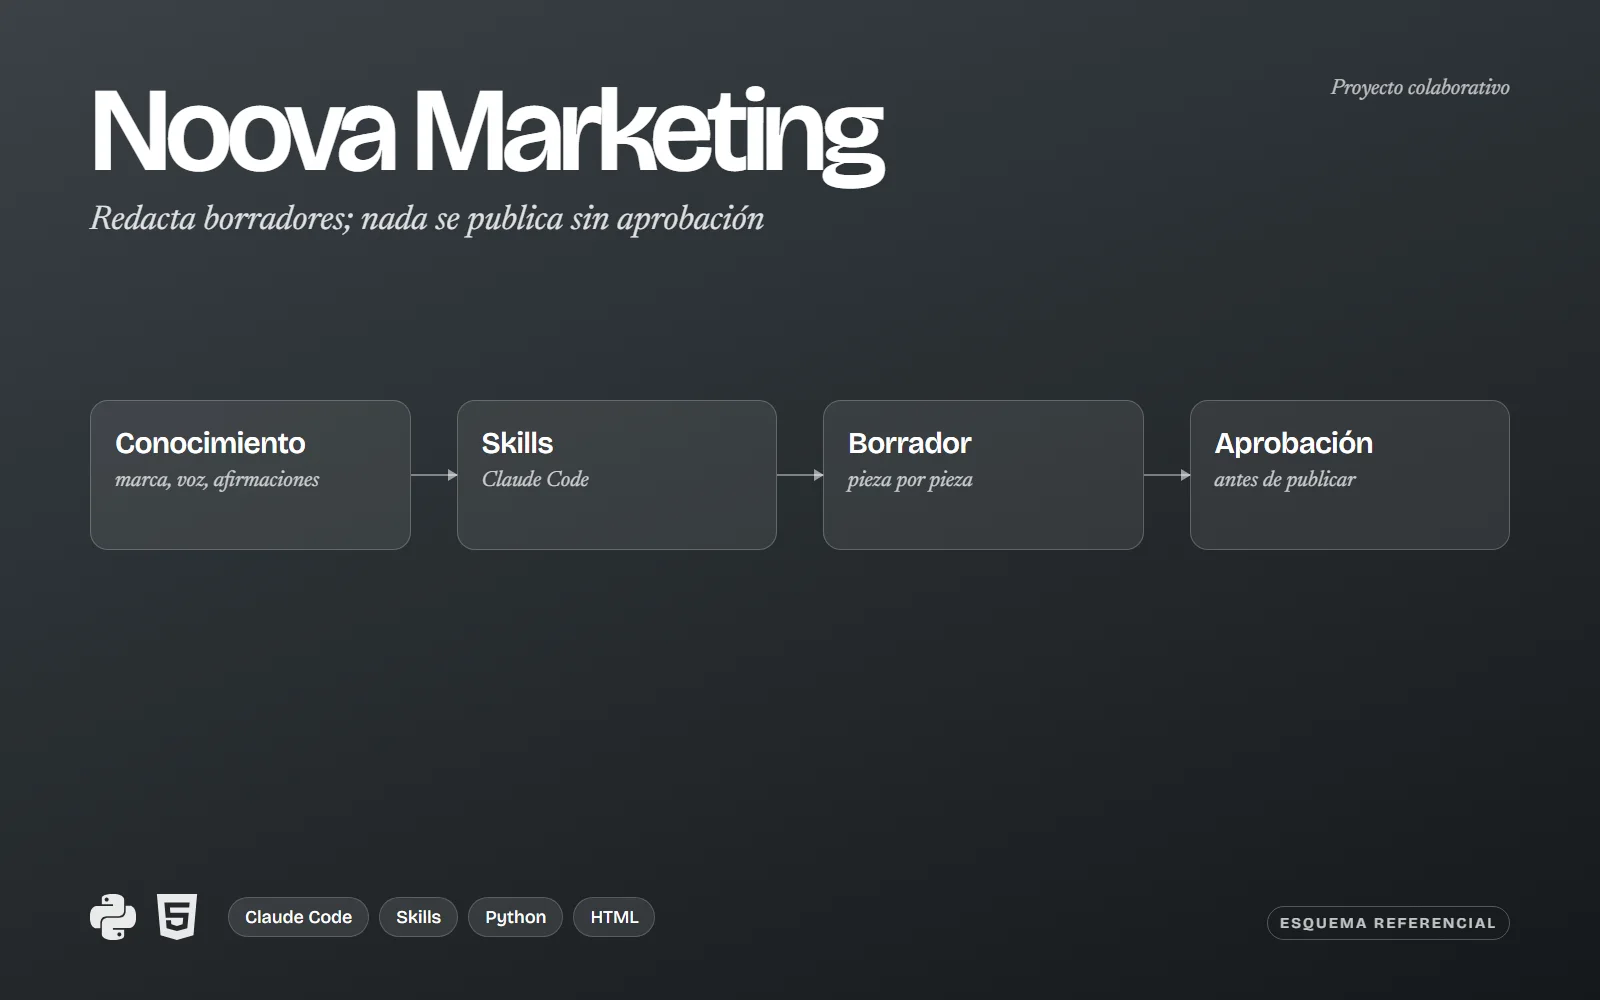
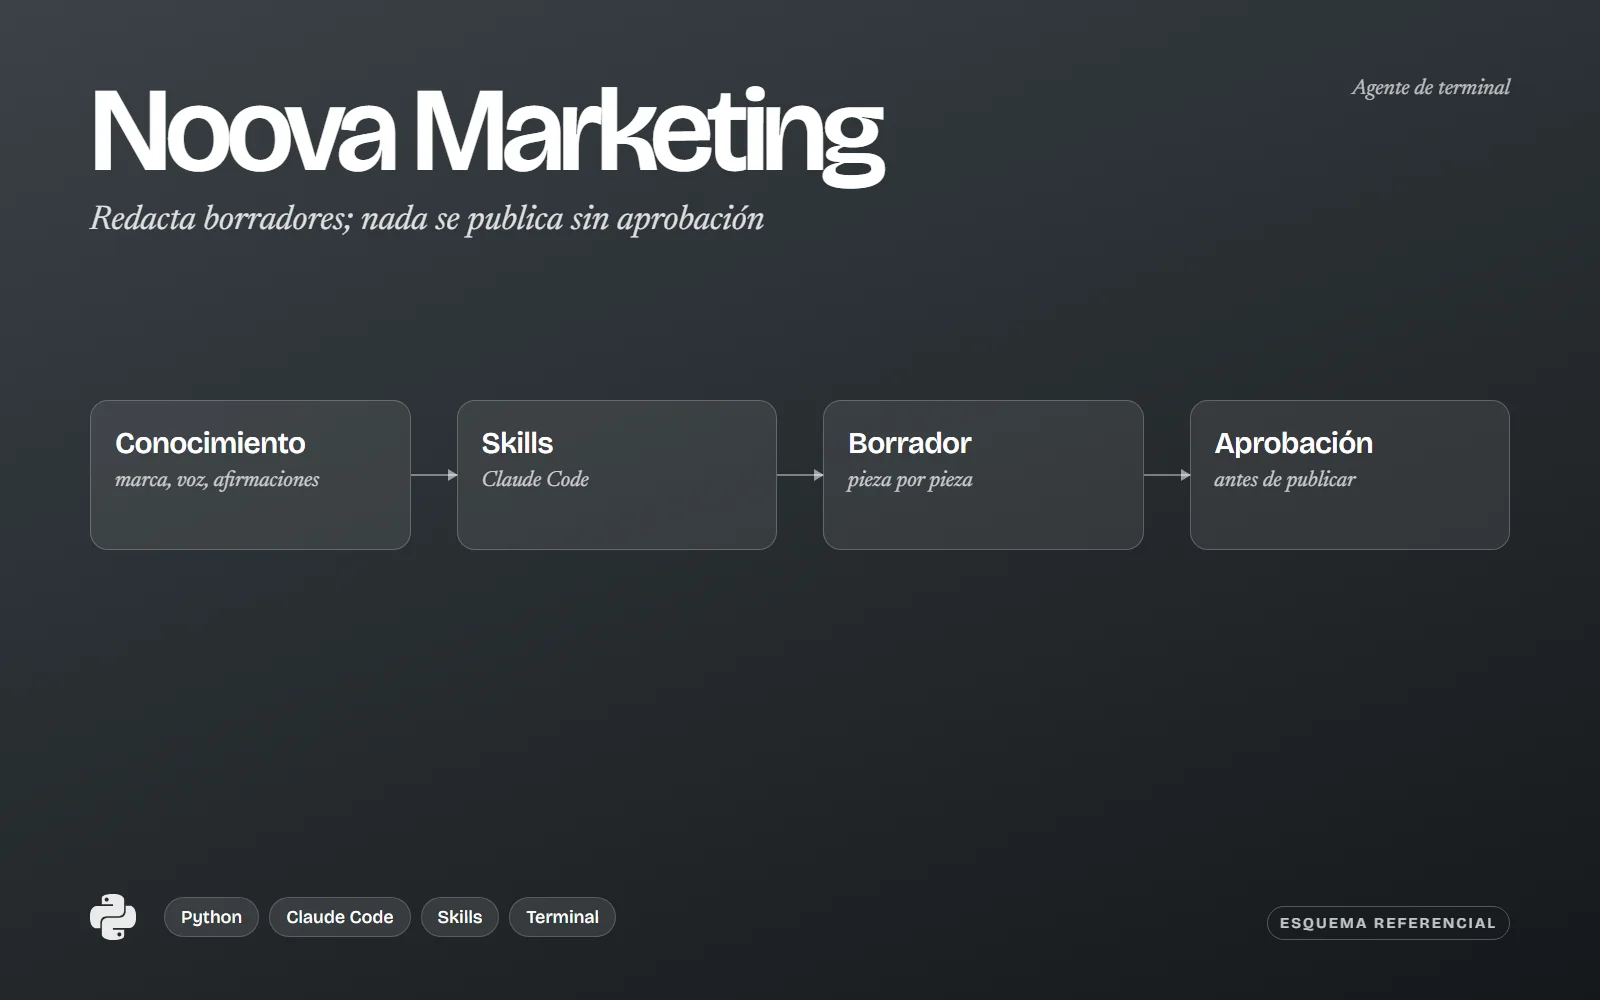
Unifica Learn Mining e Intranet y describe Noova Marketing como agente de terminal
Se quita la ficha duplicada de la intranet y Learn Mining queda como el único proyecto, con nota de coautoría. Noova Marketing se presenta como un agente en Python que se usa desde la terminal.

Changed region(s): [[0.0938, 0.868, 0.4062, 0.961], [0.8438, 0.062, 0.9375, 0.093]]

diff --git a/projects.html b/projects.html
@@ -6,7 +6,7 @@
 <meta content="width=device-width, initial-scale=1.0" name="viewport"/>
 <meta content="#f7f7f5" name="theme-color"/>
 <title>Proyectos — Luis Hostos</title>
-<meta content="Web corporativa de NOOVA, ERP interno, NOOVA Learn Mining, Intranet y Marketing, Deriva Jurídico, proyectos técnicos y personales como XARA, NVS, SUMI, SAEVUS y Jarvis." name="description"/>
+<meta content="Web corporativa de NOOVA, ERP interno, NOOVA Learn Mining, Marketing, Deriva Jurídico, proyectos técnicos y personales como XARA, NVS, SUMI, SAEVUS y Jarvis." name="description"/>
 <link href="https://luanho11.github.io/portfolio-2026/projects.html" rel="canonical"/>
 <meta content="website" property="og:type"/>
 <meta content="es_PE" property="og:locale"/>
@@ -87,19 +87,13 @@
 </button>
 </li>
 <li class="reel-item reel-item--featured" data-group="work">
-<button class="reel-card" id="card-learn" type="button" data-problem-es="Los cursos, clases y videos de capacitación de NOOVA estaban dispersos y no había forma de controlar quién accedía a cada contenido." data-problem-en="NOOVA&#x27;s courses, classes and training videos were scattered, with no way to control who could access each piece of content." data-solution-es="Una intranet de capacitación minera con cuentas propias, acceso por roles, cursos por niveles y un panel para que el administrador gestione todo sin tocar código." data-solution-en="A mining training intranet with personal accounts, role-based access, courses by level and a panel where the administrator manages everything without touching code." data-id="learn" data-title-es="NOOVA Learn Mining" data-title-en="NOOVA Learn Mining" data-label-es="Learn&lt;br&gt;Mining" data-label-en="Learn&lt;br&gt;Mining" data-kicker-es="Intranet de capacitación" data-kicker-en="Training intranet" data-context-es="NOOVA S.A.C. · Área de TI · 2026" data-context-en="NOOVA S.A.C. · IT department · 2026" data-desc-es="Intranet de capacitación minera: cursos, clases, videos y calculadoras técnicas con acceso por roles." data-desc-en="Mining training intranet: courses, classes, videos and technical calculators with role-based access." data-wins-es="Registro, verificación de correo, inicio de sesión con Google y recuperación de contraseña con Firebase Authentication.|Roles de administrador y estudiante; panel de administración para cursos, videos y alumnos.|En desarrollo: cursos por niveles con videos gratuitos y premium, pagos con Culqi y calculadoras de ventilación y bombeo.|Planificación por sprints semanales en Jira, con requerimientos, historias de usuario y plan de pruebas documentados." data-wins-en="Sign-up, email verification, Google sign-in and password recovery with Firebase Authentication.|Administrator and student roles; an admin panel for courses, videos and students.|In progress: courses by level with free and premium videos, payments with Culqi, and ventilation and pumping calculators.|Weekly sprints planned in Jira, with documented requirements, user stories and a test plan." data-cta-es="En desarrollo" data-cta-en="In progress" data-hero="./projects/gallery/learn-admin.webp" data-href="" data-tech="Next.js · Firebase · Jira" data-gallery="./projects/gallery/learn-login.webp|./projects/gallery/learn-admin.webp" data-captions-es="Inicio de sesión y registro, con acceso por Google|Panel de administración" data-captions-en="Sign-in and sign-up, with Google access|Admin panel" style="--i:3;--y:4">
+<button class="reel-card" id="card-learn" type="button" data-problem-es="Los cursos, clases y videos de capacitación de NOOVA estaban dispersos y no había forma de controlar quién accedía a cada contenido." data-problem-en="NOOVA&#x27;s courses, classes and training videos were scattered, with no way to control who could access each piece of content." data-solution-es="Una intranet de capacitación minera con cuentas propias, acceso por roles, cursos por niveles y un panel para que el administrador gestione todo sin tocar código." data-solution-en="A mining training intranet with personal accounts, role-based access, courses by level and a panel where the administrator manages everything without touching code." data-id="learn" data-title-es="NOOVA Learn Mining" data-title-en="NOOVA Learn Mining" data-label-es="Learn&lt;br&gt;Mining" data-label-en="Learn&lt;br&gt;Mining" data-kicker-es="Intranet de capacitación" data-kicker-en="Training intranet" data-context-es="NOOVA S.A.C. · Área de TI · 2026" data-context-en="NOOVA S.A.C. · IT department · 2026" data-desc-es="Intranet de capacitación minera: cursos, clases, videos y calculadoras técnicas con acceso por roles." data-desc-en="Mining training intranet: courses, classes, videos and technical calculators with role-based access." data-wins-es="Registro, verificación de correo, inicio de sesión con Google y recuperación de contraseña con Firebase Authentication.|Roles de administrador y estudiante; panel de administración para cursos, videos y alumnos.|En desarrollo: cursos por niveles con videos gratuitos y premium, pagos con Culqi y calculadoras de ventilación y bombeo.|Planificación por sprints semanales en Jira, con requerimientos, historias de usuario y plan de pruebas documentados.|Desarrollo en equipo: participo como coautor." data-wins-en="Sign-up, email verification, Google sign-in and password recovery with Firebase Authentication.|Administrator and student roles; an admin panel for courses, videos and students.|In progress: courses by level with free and premium videos, payments with Culqi, and ventilation and pumping calculators.|Weekly sprints planned in Jira, with documented requirements, user stories and a test plan.|Team development: I take part as a co-author." data-cta-es="En desarrollo" data-cta-en="In progress" data-hero="./projects/gallery/learn-admin.webp" data-href="" data-tech="Next.js · Firebase · Jira" data-gallery="./projects/gallery/learn-login.webp|./projects/gallery/learn-admin.webp" data-captions-es="Inicio de sesión y registro, con acceso por Google|Panel de administración" data-captions-en="Sign-in and sign-up, with Google access|Admin panel" style="--i:3;--y:4">
 <span class="reel-card__media"><img alt="" decoding="async" loading="lazy" src="./projects/learn-card.webp"/></span>
 <span class="reel-card__label">Learn<br>Mining</span>
 </button>
 </li>
 <li class="reel-item reel-item--featured" data-group="work">
-<button class="reel-card" id="card-intranet" type="button" data-hero="./projects/gallery/intranet-esquema.webp" data-problem-es="La información y los procesos de la empresa necesitaban un lugar común, con acceso controlado según quién los consulta." data-problem-en="The company&#x27;s information and processes needed a common place, with access controlled by who is viewing them." data-solution-es="Una plataforma interna con autenticación, control de acceso y gestión de contenidos, desarrollada en equipo." data-solution-en="An internal platform with authentication, access control and content management, built as a team." data-id="intranet" data-title-es="NOOVA Intranet" data-title-en="NOOVA Intranet" data-label-es="NOOVA&lt;br&gt;Intranet" data-label-en="NOOVA&lt;br&gt;Intranet" data-kicker-es="Plataforma interna" data-kicker-en="Internal platform" data-context-es="NOOVA S.A.C. · Proyecto colaborativo" data-context-en="NOOVA S.A.C. · Collaborative project" data-role-es="Coautor del desarrollo junto con el equipo" data-role-en="Co-author of the development together with the team" data-desc-es="Plataforma interna para gestionar información y procesos empresariales." data-desc-en="Internal platform to manage business information and processes." data-wins-es="Autenticación y control de acceso.|Gestión de contenidos.|Desarrollo en equipo: participo como coautor." data-wins-en="Authentication and access control.|Content management.|Team development: I take part as a co-author." data-cta-es="Proyecto colaborativo" data-cta-en="Collaborative project" data-href="" data-tech="Autenticación · Control de acceso · Gestión de contenidos" data-gallery="./projects/gallery/intranet-esquema.webp" data-captions-es="Esquema referencial (capturas reales pendientes)" data-captions-en="Reference diagram (real screenshots pending)" style="--i:4;--y:2">
-<span class="reel-card__media"><img alt="Esquema referencial de NOOVA Intranet: autenticación, control de acceso y gestión de contenidos" decoding="async" loading="lazy" src="./projects/intranet-card.webp"/></span>
-<span class="reel-card__label">NOOVA<br>Intranet</span>
-</button>
-</li>
-<li class="reel-item reel-item--featured" data-group="work">
-<button class="reel-card" id="card-marketing" type="button" data-hero="./projects/gallery/marketing-esquema.webp" data-problem-es="Producir publicaciones, folletos y guiones de forma constante exige cuidar la voz de la marca y que cada pieza diga solo cosas que la empresa puede afirmar." data-problem-en="Producing posts, brochures and scripts consistently means protecting the brand voice and making sure every piece says only what the company can claim." data-solution-es="Un sistema de marketing para Noova Consulting construido sobre skills de Claude Code. Redacta borradores a partir del conocimiento de la marca y nada se publica sin aprobar cada pieza." data-solution-en="A marketing system for Noova Consulting built on Claude Code skills. It drafts pieces from the brand knowledge, and nothing is published without approving each piece." data-id="marketing" data-title-es="Noova Marketing" data-title-en="Noova Marketing" data-label-es="Noova&lt;br&gt;Marketing" data-label-en="Noova&lt;br&gt;Marketing" data-kicker-es="Sistema de marketing" data-kicker-en="Marketing system" data-context-es="NOOVA S.A.C. · Proyecto colaborativo" data-context-en="NOOVA S.A.C. · Collaborative project" data-role-es="Desarrollo junto con el equipo" data-role-en="Development together with the team" data-desc-es="Sistema que redacta borradores de marketing para Noova y exige aprobar cada pieza antes de publicarla." data-desc-en="System that drafts marketing pieces for Noova and requires approving each one before it is published." data-wins-es="Conocimiento de la marca (perfil, voz y afirmaciones aprobadas) como fuente de verdad.|Plantillas para publicaciones, folleto, imagen, guion de video y nota de prensa.|Flujo de borradores pendientes, aprobados y publicados, con calendario.|Scripts para indexar imágenes, exportar piezas y detectar textos genéricos." data-wins-en="Brand knowledge (profile, voice and approved claims) as the source of truth.|Templates for posts, brochure, image, video script and press release.|A workflow of pending, approved and published drafts, with a calendar.|Scripts to index images, export pieces and detect generic copy." data-cta-es="Proyecto privado" data-cta-en="Private project" data-href="" data-tech="Claude Code · Skills · Python · HTML" data-gallery="./projects/gallery/marketing-esquema.webp" data-captions-es="Esquema referencial (capturas reales pendientes)" data-captions-en="Reference diagram (real screenshots pending)" style="--i:0;--y:-2">
+<button class="reel-card" id="card-marketing" type="button" data-hero="./projects/gallery/marketing-esquema.webp" data-problem-es="Producir publicaciones, folletos y guiones de forma constante exige cuidar la voz de la marca y que cada pieza diga solo cosas que la empresa puede afirmar." data-problem-en="Producing posts, brochures and scripts consistently means protecting the brand voice and making sure every piece says only what the company can claim." data-solution-es="Un agente que se usa desde la terminal, hecho con skills de Claude Code y scripts en Python. Redacta borradores a partir del conocimiento de la marca y nada se publica sin aprobar cada pieza. No tiene interfaz gráfica, por eso no hay capturas de pantalla." data-solution-en="An agent used from the terminal, built with Claude Code skills and Python scripts. It drafts pieces from the brand knowledge, and nothing is published without approving each piece. It has no graphical interface, so there are no screenshots." data-id="marketing" data-title-es="Noova Marketing" data-title-en="Noova Marketing" data-label-es="Noova&lt;br&gt;Marketing" data-label-en="Noova&lt;br&gt;Marketing" data-kicker-es="Agente en Python" data-kicker-en="Python agent" data-context-es="NOOVA S.A.C. · Proyecto colaborativo" data-context-en="NOOVA S.A.C. · Collaborative project" data-role-es="Desarrollo junto con el equipo" data-role-en="Development together with the team" data-desc-es="Agente de terminal que redacta borradores de marketing para Noova y exige aprobar cada pieza antes de publicarla." data-desc-en="Terminal agent that drafts marketing pieces for Noova and requires approving each one before it is published." data-wins-es="Conocimiento de la marca (perfil, voz y afirmaciones aprobadas) como fuente de verdad.|Plantillas para publicaciones, folleto, imagen, guion de video y nota de prensa.|Flujo de borradores pendientes, aprobados y publicados, con calendario.|Scripts para indexar imágenes, exportar piezas y detectar textos genéricos." data-wins-en="Brand knowledge (profile, voice and approved claims) as the source of truth.|Templates for posts, brochure, image, video script and press release.|A workflow of pending, approved and published drafts, with a calendar.|Scripts to index images, export pieces and detect generic copy." data-cta-es="Proyecto privado" data-cta-en="Private project" data-href="" data-tech="Claude Code · Skills · Python · HTML" data-gallery="./projects/gallery/marketing-esquema.webp" data-captions-es="Esquema referencial: funciona en la terminal, sin interfaz gráfica" data-captions-en="Reference diagram: it runs in the terminal, with no graphical interface" style="--i:0;--y:-2">
 <span class="reel-card__media"><img alt="Esquema referencial de Noova Marketing: conocimiento de marca, skills de Claude Code, borrador y aprobación" decoding="async" loading="lazy" src="./projects/marketing-card.webp"/></span>
 <span class="reel-card__label">Noova<br>Marketing</span>
 </button>

diff --git a/about.html b/about.html
@@ -68,7 +68,7 @@
       <h2 id="experience-title">Experiencia</h2>
       <article class="experience-row experience-noova">
         <div class="experience-company"><span class="company-logo"><img src="./logos/noova-mark.webp" alt="" width="240" height="131" /></span><div><h3>NOOVA S.A.C.</h3><p>Responsable del área de TI</p><span>Junio 2026 — Actualidad · Lima, Perú</span></div></div>
-        <div class="experience-copy"><p>Lidero el área de TI: seleccioné a un equipo de 2 personas y defino los requerimientos, la arquitectura y el diseño de cada proyecto.</p><p>Desarrollé la web corporativa y un ERP interno de clientes, cotizaciones y compras. En desarrollo: Noova Learn Mining, su plataforma de formación.</p><p class="experience-extra">El ERP incluye permisos por rol, dashboards y generación de documentos PDF. En la web configuré el SEO técnico, el dominio y el hosting, y reporto el avance de cada proyecto a gerencia.</p><p class="experience-tech">React · Next.js · TypeScript · Firebase · Vite</p><div class="experience-links"><a class="text-link" href="./projects.html#noova">Web corporativa →</a><a class="text-link" href="./projects.html#erp">ERP interno →</a><a class="text-link" href="./projects.html#learn">Learn Mining →</a><a class="text-link" href="./projects.html#intranet">Intranet →</a></div></div>
+        <div class="experience-copy"><p>Lidero el área de TI: seleccioné a un equipo de 2 personas y defino los requerimientos, la arquitectura y el diseño de cada proyecto.</p><p>Desarrollé la web corporativa y un ERP interno de clientes, cotizaciones y compras. En desarrollo: Noova Learn Mining, su plataforma de formación.</p><p class="experience-extra">El ERP incluye permisos por rol, dashboards y generación de documentos PDF. En la web configuré el SEO técnico, el dominio y el hosting, y reporto el avance de cada proyecto a gerencia.</p><p class="experience-tech">React · Next.js · TypeScript · Firebase · Vite</p><div class="experience-links"><a class="text-link" href="./projects.html#noova">Web corporativa →</a><a class="text-link" href="./projects.html#erp">ERP interno →</a><a class="text-link" href="./projects.html#learn">Learn Mining →</a></div></div>
       </article>
       <article class="experience-row experience-deriva">
         <div class="experience-company"><span class="company-logo company-logo--tall"><img src="./logos/deriva-mark.webp" alt="" width="118" height="200" /></span><div><h3>Deriva Jurídico</h3><p>Desarrollador Web Freelance</p><span>2025 — 2026 · Lima, Perú</span></div></div>

diff --git a/src/main.js b/src/main.js
@@ -266,7 +266,6 @@ const COPY_EN = new Map(Object.entries({
   "Mi experiencia":"My experience",
   "Ver servicios":"View services",
   "Learn Mining →":"Learn Mining →",
-  "Intranet →":"Intranet →",
   "Disponible para nuevas oportunidades y proyectos.":"Available for new opportunities and projects.",
   "Mi perfil.":"My profile.",
   "Formación y certificaciones":"Education and certifications",
